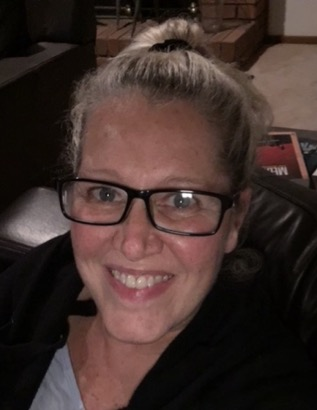
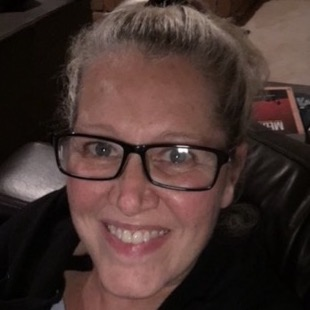
Crop headshots to squares

diff --git a/_sass/minima/_layout.scss b/_sass/minima/_layout.scss
@@ -497,10 +497,11 @@ div.person-grid{
 
 div.person-wrapper{
   display: grid;
-  grid-template-columns: 1fr 7fr 1fr;
+  grid-template-columns: 2fr 7fr 2fr;
 
   @include media-query($on-palm) {
     grid-template-columns: 1fr;
+
   }
 
 
@@ -508,10 +509,10 @@ div.person-wrapper{
     grid-column: 2/3;
     margin: 20px 0;
     display: grid;
-    grid-template-columns: 2fr 3fr;
+    grid-template-columns: 2fr 2fr;
     @include media-query($navi-break) {
-      grid-template-columns: 1fr 3fr;
-      grid-column-gap: 15px;
+      grid-template-columns: 2fr 3fr;
+      grid-column-gap: 30px;
 
     }
 
@@ -519,7 +520,7 @@ div.person-wrapper{
       grid-column: 1/2;
       grid-template-columns: 1fr;
       grid-column-gap: 15px;
-
+      grid-row-gap: 20px;
     }
 
     #link-back{
@@ -529,8 +530,8 @@ div.person-wrapper{
       }
     }
 
-    grid-row-gap: 20px;
-    grid-column-gap: 10px;
+    grid-row-gap: 50px;
+    grid-column-gap: 30px;
     color: black;
     //margin: 20px;
     padding: 20px;
@@ -548,7 +549,7 @@ div.person-wrapper{
     }
 
     div.description {
-      //padding: 20px;
+      //padding-top: 20px;
       //border-top: 1px solid darken($brand-color, 15%);
       grid-column: 1/3;
       text-align: justify;
